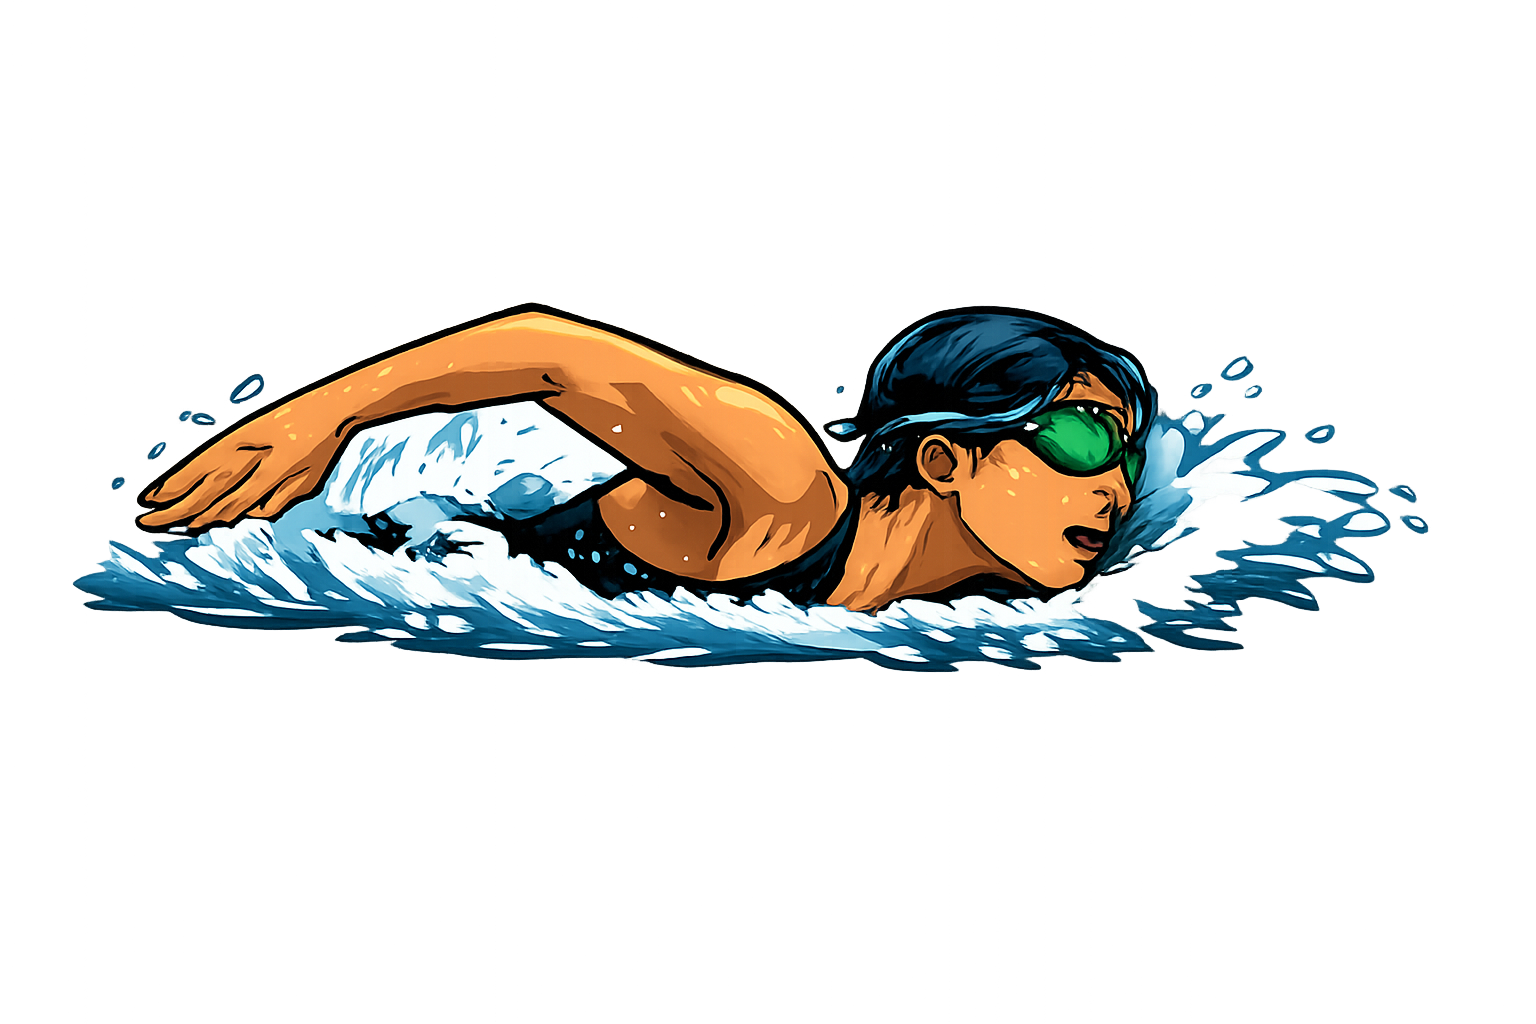
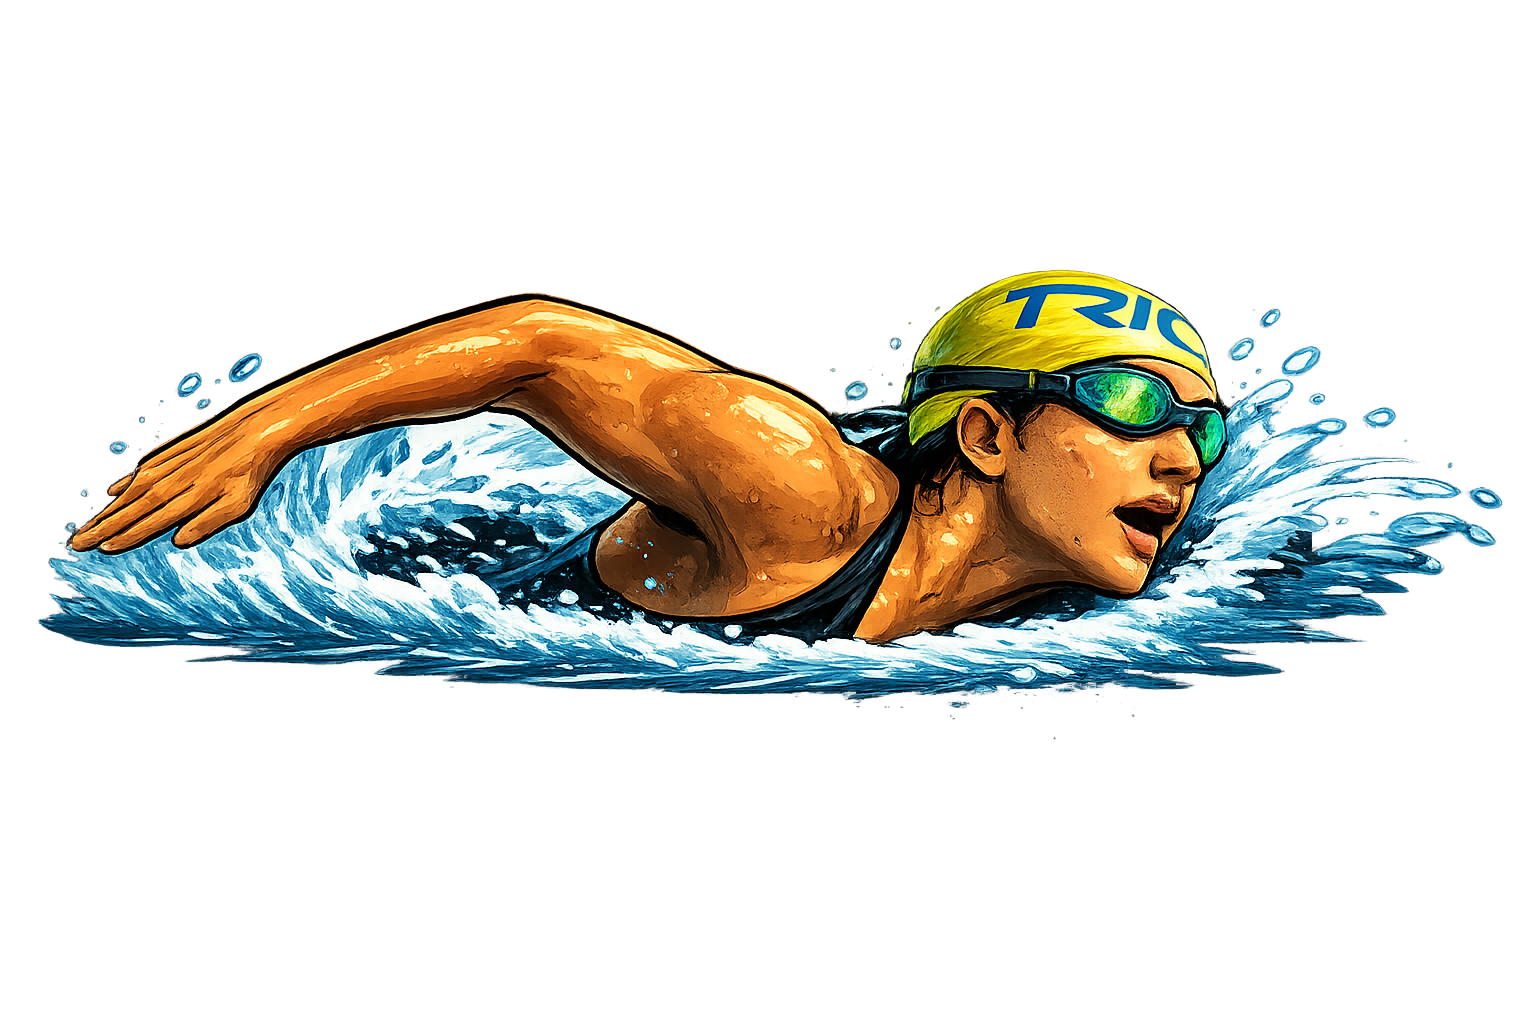
cambios

Changed region(s): [[0.0312, 0.25, 1.0, 0.6875]]

diff --git a/src/components/PublicView.tsx b/src/components/PublicView.tsx
@@ -70,12 +70,53 @@ export default function PublicView() {
   }
 
   return (
-    <div className="min-h-screen bg-gradient-to-br from-slate-900 via-slate-800 to-slate-900 flex items-center justify-center p-6 lg:p-8">
+    <div className="min-h-screen bg-gradient-to-br from-slate-900 via-slate-800 to-slate-900 flex items-center justify-center p-6 lg:p-8 relative overflow-hidden">
+      {/* Ondas de agua animadas de fondo */}
+      <div className="absolute inset-0 opacity-10 pointer-events-none">
+        <div className="absolute bottom-0 left-0 right-0 h-32 bg-gradient-to-t from-blue-500/30 to-transparent animate-wave" style={{ animationDelay: '0s' }}></div>
+        <div className="absolute bottom-0 left-0 right-0 h-32 bg-gradient-to-t from-cyan-500/20 to-transparent animate-wave" style={{ animationDelay: '0.5s' }}></div>
+        <div className="absolute bottom-0 left-0 right-0 h-32 bg-gradient-to-t from-teal-500/15 to-transparent animate-wave" style={{ animationDelay: '1s' }}></div>
+      </div>
+      
+      {/* Burbujas flotantes */}
+      {[...Array(12)].map((_, i) => (
+        <div
+          key={i}
+          className="absolute w-2 h-2 bg-blue-400/30 rounded-full animate-float-up"
+          style={{
+            left: `${Math.random() * 100}%`,
+            animationDelay: `${Math.random() * 15}s`,
+            animationDuration: `${10 + Math.random() * 10}s`,
+          }}
+        ></div>
+      ))}
+      
       {/* Modal de celebración */}
       {showCelebration && (
         <div className="fixed inset-0 z-50 flex items-center justify-center bg-black/80 backdrop-blur-sm animate-in fade-in duration-500">
-          <div className="bg-gradient-to-br from-slate-900 via-slate-800 to-slate-900 border-4 border-red-500 rounded-2xl p-8 lg:p-12 max-w-3xl mx-4 shadow-2xl animate-in zoom-in duration-700">
-            <div className="text-center space-y-6">
+          {/* Efectos de agua en el modal */}
+          <div className="absolute inset-0 pointer-events-none overflow-hidden">
+            {[...Array(20)].map((_, i) => (
+              <div
+                key={i}
+                className="absolute w-3 h-3 bg-blue-400/40 rounded-full animate-float-up"
+                style={{
+                  left: `${Math.random() * 100}%`,
+                  animationDelay: `${Math.random() * 5}s`,
+                  animationDuration: `${8 + Math.random() * 5}s`,
+                }}
+              ></div>
+            ))}
+          </div>
+          
+          <div className="bg-gradient-to-br from-slate-900 via-slate-800 to-slate-900 border-4 border-red-500 rounded-2xl p-8 lg:p-12 max-w-3xl mx-4 shadow-2xl animate-in zoom-in duration-700 relative overflow-hidden">
+            {/* Efectos de brillo/ripple */}
+            <div className="absolute inset-0 pointer-events-none">
+              <div className="absolute top-1/2 left-1/2 w-64 h-64 bg-blue-500/10 rounded-full blur-3xl animate-ripple"></div>
+              <div className="absolute top-1/2 left-1/2 w-64 h-64 bg-cyan-500/10 rounded-full blur-3xl animate-ripple" style={{ animationDelay: '0.5s' }}></div>
+            </div>
+            
+            <div className="text-center space-y-6 relative z-10">
               <div className="text-6xl lg:text-8xl mb-4 animate-bounce">🏆</div>
               <h2 className="text-4xl sm:text-5xl lg:text-6xl font-bold text-white mb-4 tracking-tight">
                 ¡RÉCORD
@@ -119,7 +160,11 @@ export default function PublicView() {
       )}
 
       <div className="w-full max-w-7xl">
-        <Card className="bg-slate-900/50 border-slate-700/50 backdrop-blur-xl p-4 lg:p-6 shadow-2xl w-full">
+        <Card className="bg-slate-900/50 border-slate-700/50 backdrop-blur-xl p-4 lg:p-6 shadow-2xl w-full relative overflow-hidden">
+          {/* Efectos decorativos de agua */}
+          <div className="absolute top-0 left-0 right-0 h-1 bg-gradient-to-r from-transparent via-blue-500/50 to-transparent animate-shimmer"></div>
+          <div className="absolute bottom-0 left-0 right-0 h-1 bg-gradient-to-r from-transparent via-cyan-500/50 to-transparent animate-shimmer" style={{ animationDelay: '1s' }}></div>
+          
           {/* Header */}
           <div className="text-center mb-3">
             <h1 className="text-2xl sm:text-3xl lg:text-4xl font-bold text-white mb-0.5 tracking-tight leading-tight">

diff --git a/src/components/StatsGrid.tsx b/src/components/StatsGrid.tsx
@@ -76,14 +76,17 @@ export default function StatsGrid({ stats }: StatsGridProps) {
       {statItems.map((stat, index) => (
         <Card
           key={index}
-          className="bg-slate-800/30 border-slate-700/50 p-3 hover:bg-slate-800/50 hover:border-slate-600 transition-all duration-300"
+          className="bg-slate-800/30 border-slate-700/50 p-3 hover:bg-slate-800/50 hover:border-slate-600 transition-all duration-300 relative overflow-hidden group"
         >
-          <div className="flex items-start justify-between mb-2">
-            <div className={`${stat.bgColor} ${stat.shadow} p-2 rounded-lg shadow-lg backdrop-blur-sm border border-white/10`}>
+          {/* Efecto de brillo al hover */}
+          <div className="absolute inset-0 bg-gradient-to-r from-transparent via-white/5 to-transparent translate-x-[-100%] group-hover:translate-x-[100%] transition-transform duration-1000"></div>
+          
+          <div className="flex items-start justify-between mb-2 relative z-10">
+            <div className={`${stat.bgColor} ${stat.shadow} p-2 rounded-lg shadow-lg backdrop-blur-sm border border-white/10 transition-transform duration-300 group-hover:scale-110 group-hover:rotate-3`}>
               <stat.icon className={`w-4 h-4 sm:w-5 sm:h-5 ${stat.color}`} strokeWidth={2.5} />
             </div>
           </div>
-          <div className="space-y-0.5">
+          <div className="space-y-0.5 relative z-10">
             <div className="text-xs text-slate-400 font-medium leading-tight">{stat.label}</div>
             <div className="flex items-baseline gap-1">
               <div className="text-xl sm:text-2xl font-bold text-white tabular-nums">{stat.value}</div>

diff --git a/src/index.css b/src/index.css
@@ -69,6 +69,66 @@
   }
 }
 
+@keyframes wave {
+  0% {
+    transform: translateX(0) translateY(0);
+  }
+  50% {
+    transform: translateX(-25%) translateY(-5px);
+  }
+  100% {
+    transform: translateX(-50%) translateY(0);
+  }
+}
+
+@keyframes float-up {
+  0% {
+    transform: translateY(100vh) scale(0);
+    opacity: 0;
+  }
+  10% {
+    opacity: 0.6;
+  }
+  90% {
+    opacity: 0.6;
+  }
+  100% {
+    transform: translateY(-100vh) scale(1);
+    opacity: 0;
+  }
+}
+
+@keyframes ripple {
+  0% {
+    transform: scale(0.8);
+    opacity: 1;
+  }
+  100% {
+    transform: scale(2.4);
+    opacity: 0;
+  }
+}
+
+@keyframes splash {
+  0%, 100% {
+    transform: scale(1) rotate(0deg);
+    opacity: 0.7;
+  }
+  50% {
+    transform: scale(1.1) rotate(5deg);
+    opacity: 1;
+  }
+}
+
+@keyframes glow-pulse {
+  0%, 100% {
+    box-shadow: 0 0 20px rgba(59, 130, 246, 0.5), 0 0 40px rgba(59, 130, 246, 0.3);
+  }
+  50% {
+    box-shadow: 0 0 30px rgba(59, 130, 246, 0.7), 0 0 60px rgba(59, 130, 246, 0.5);
+  }
+}
+
 .animate-swim {
   animation: swim 2s ease-in-out infinite;
 }
@@ -87,4 +147,24 @@
 
 .animate-bubble-3 {
   animation: bubble-3 4s ease-in-out infinite;
+}
+
+.animate-wave {
+  animation: wave 20s linear infinite;
+}
+
+.animate-float-up {
+  animation: float-up 15s linear infinite;
+}
+
+.animate-ripple {
+  animation: ripple 2s ease-out infinite;
+}
+
+.animate-splash {
+  animation: splash 3s ease-in-out infinite;
+}
+
+.animate-glow-pulse {
+  animation: glow-pulse 2s ease-in-out infinite;
 }

diff --git a/src/components/AdminPanel.tsx b/src/components/AdminPanel.tsx
@@ -145,13 +145,26 @@ export default function AdminPanel() {
   }
 
   const handleSaveStats = () => {
+    // Calcular promedios correctamente (ignorando ceros)
+    const newAvgPace = statsInput.avgPace === 0 
+      ? swimData.stats.avgPace 
+      : swimData.stats.avgPace === 0 
+        ? statsInput.avgPace 
+        : (statsInput.avgPace + swimData.stats.avgPace) / 2;
+    
+    const newAvgHeartRate = statsInput.avgHeartRate === 0 
+      ? swimData.stats.avgHeartRate 
+      : swimData.stats.avgHeartRate === 0 
+        ? statsInput.avgHeartRate 
+        : (statsInput.avgHeartRate + swimData.stats.avgHeartRate) / 2;
+
     // Sumar los valores de los inputs a las estadísticas actuales
     const updatedStats: Stats = {
       distance: swimData.stats.distance + statsInput.distance,
       strokes: swimData.stats.strokes + statsInput.strokes,
       calories: swimData.stats.calories + statsInput.calories,
-      avgPace: statsInput.avgPace, // Se sobreescribe
-      avgHeartRate: statsInput.avgHeartRate, // Se sobreescribe
+      avgPace: newAvgPace,
+      avgHeartRate: newAvgHeartRate,
     }
     
     const updatedData = {
